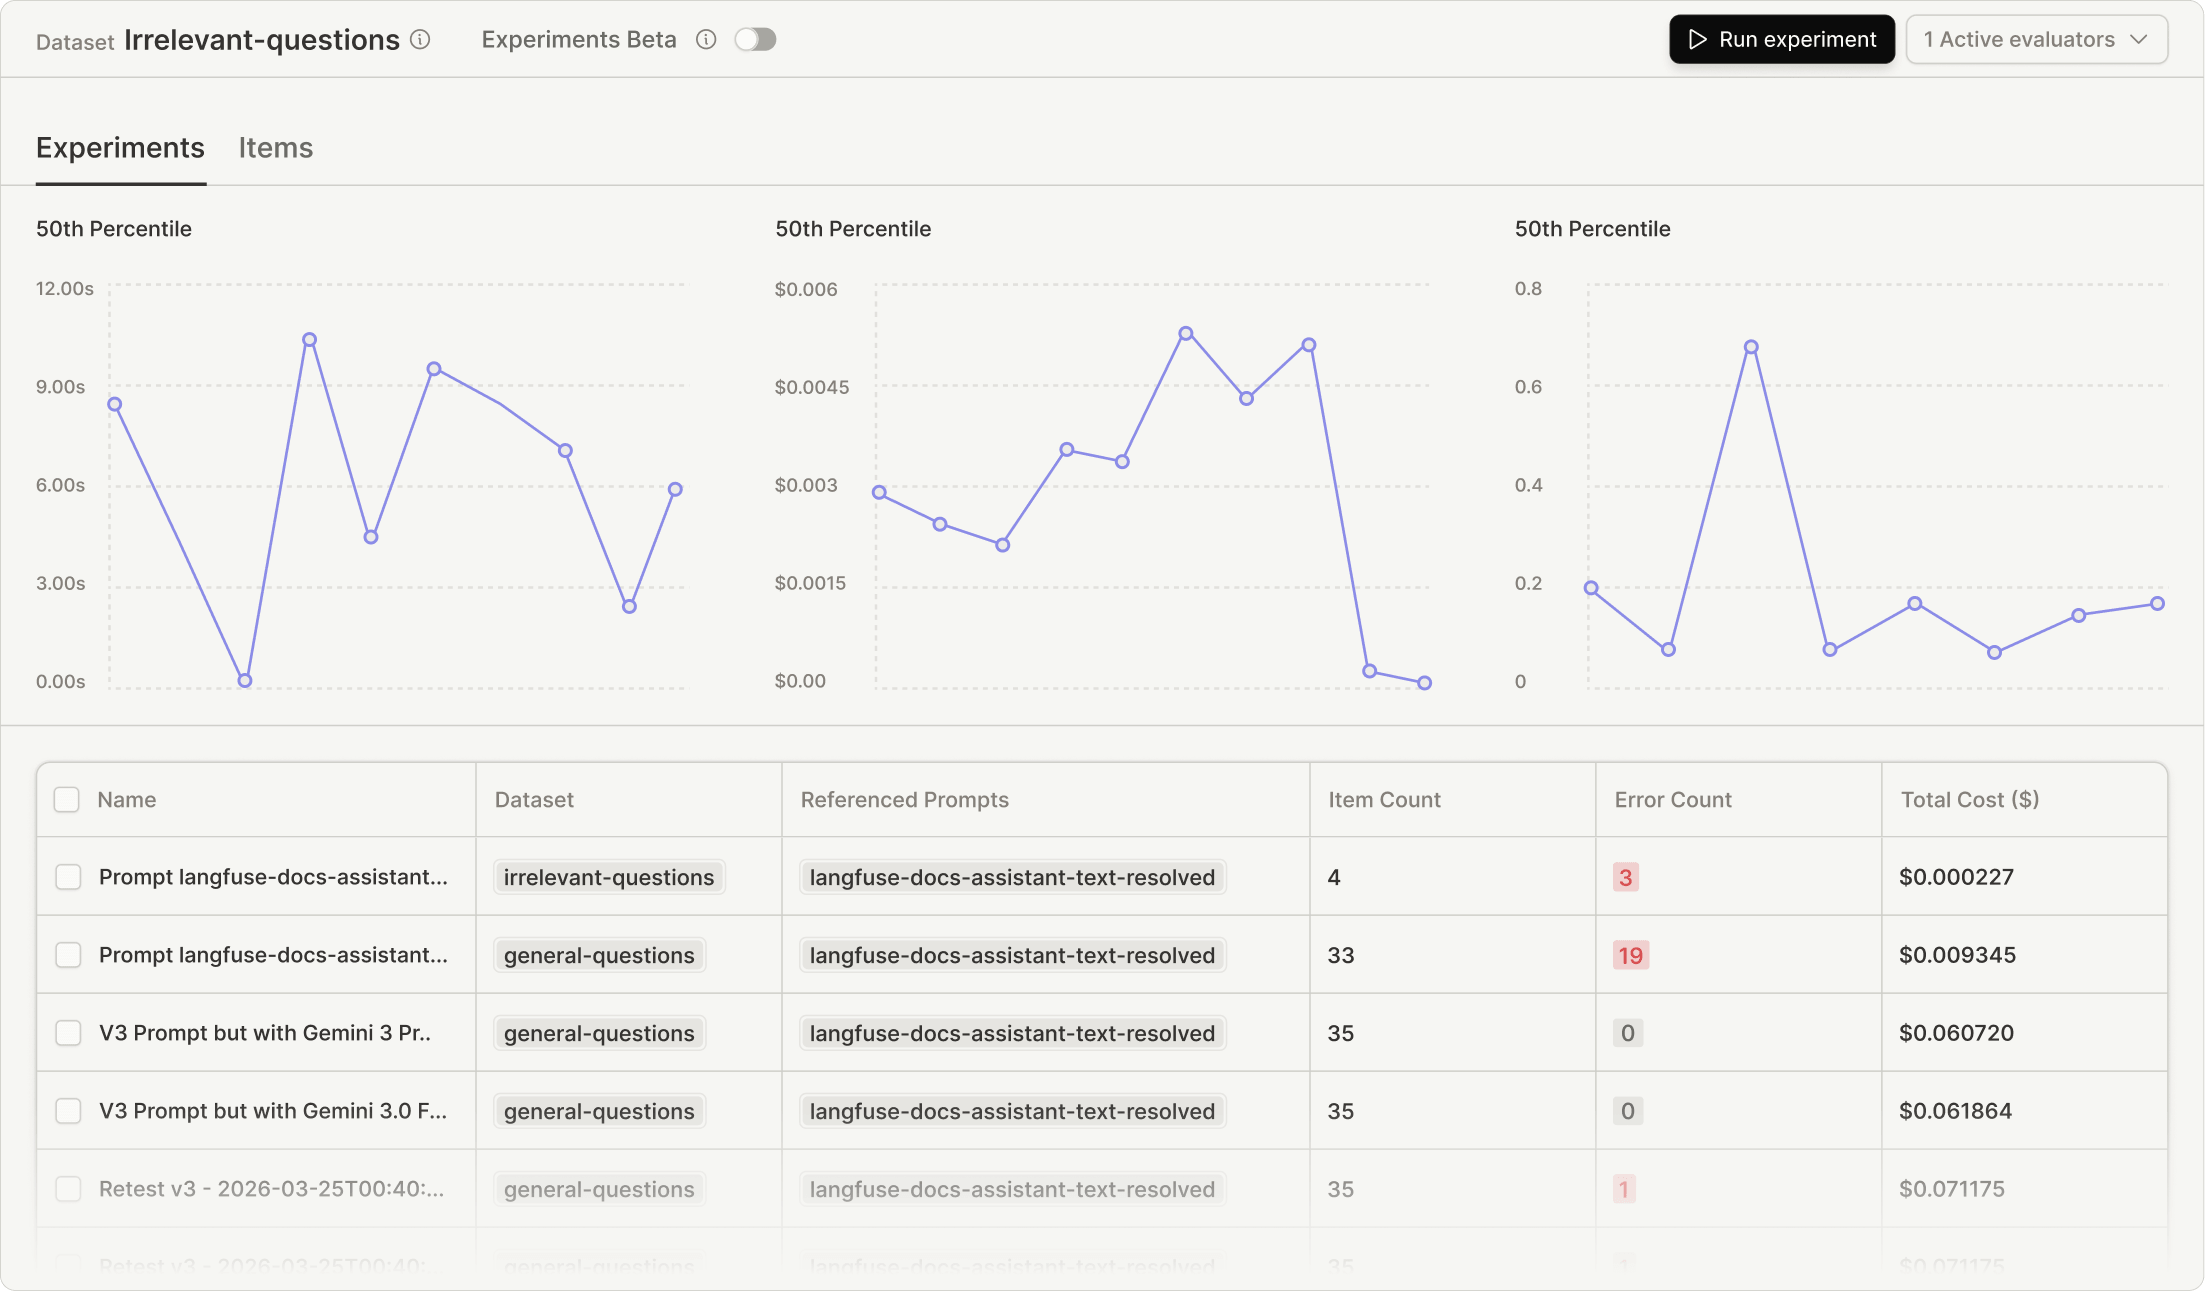
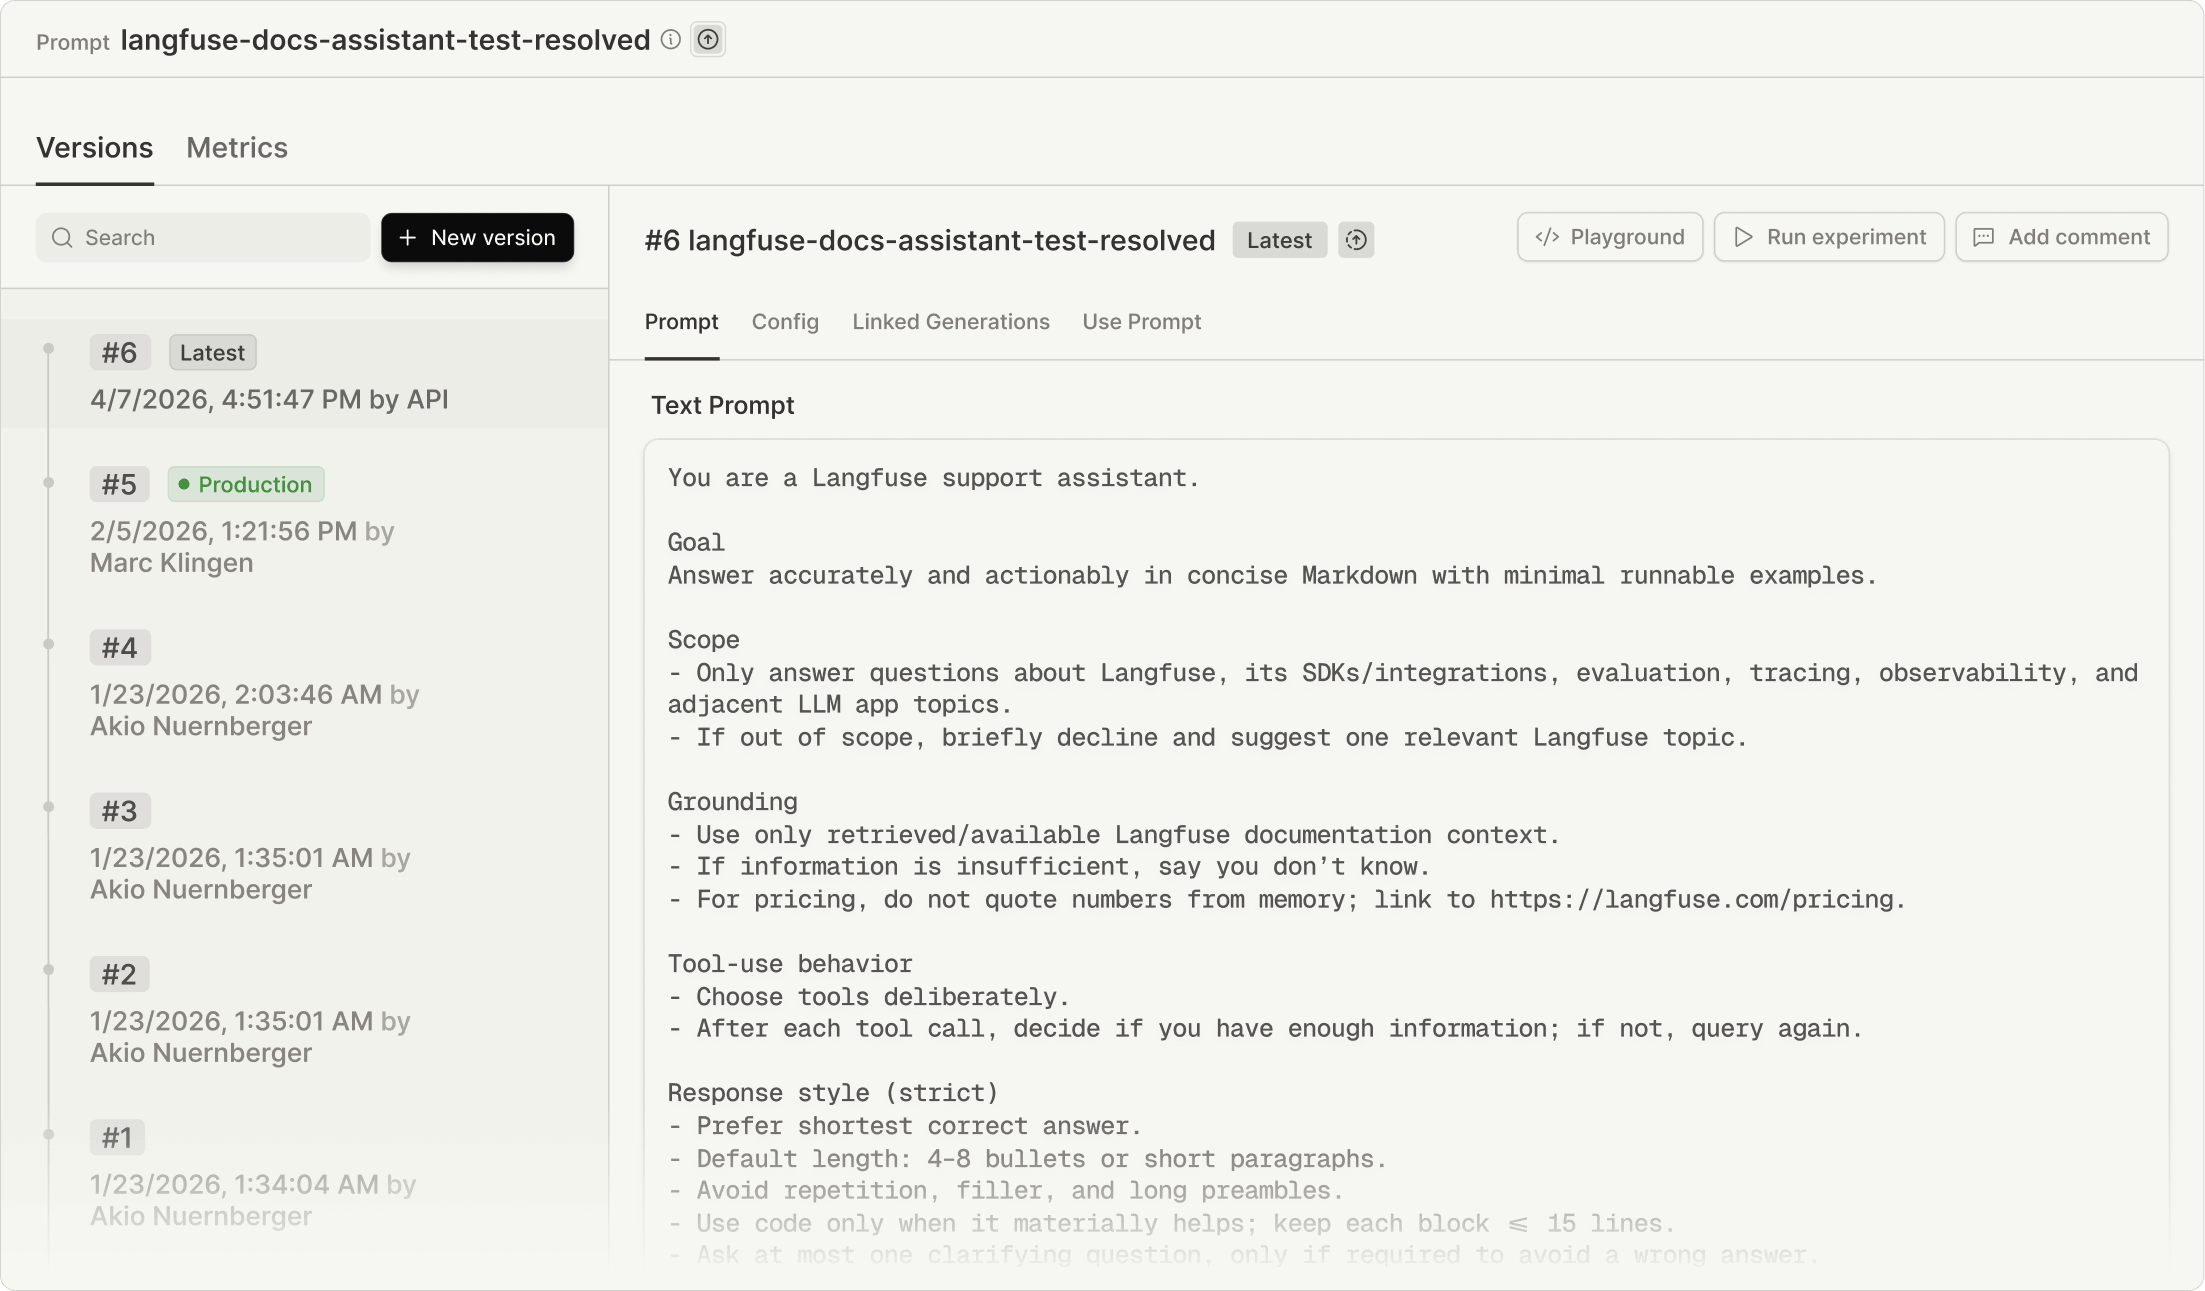
sidebar separator decorators

diff --git a/components/docs-sidebar/SidebarSeparatorItem.tsx b/components/docs-sidebar/SidebarSeparatorItem.tsx
@@ -31,10 +31,13 @@ export function SidebarSeparatorItem({
         "[&_svg]:size-4 [&_svg]:shrink-0",
         depth === 0 ? "w-full" : "max-w-[calc(100%-16px)] mx-auto",
         "relative w-full pb-1.5 font-[580] text-text-primary",
-        "after:pointer-events-none after:absolute after:bottom-0 after:right-0 after:h-px after:content-['']",
-        "after:left-[var(--sidebar-label-left)]",
-        depth > 0 && "after:bg-[var(--line-structure)]",
-        depth > 0 && "text-text-tertiary mt-3",
+        "after:pointer-events-none after:absolute after:right-0 after:h-px after:content-['']",
+        // depth 0: 1px line at the TOP of the separator
+        depth === 0 &&
+        "pt-3 mt-2 after:top-0 after:left-0 after:bg-[var(--line-structure)]",
+        // depth > 0: 1px underline beneath the label
+        depth > 0 &&
+        "mt-3 text-text-tertiary after:bottom-0 after:left-[var(--sidebar-label-left)] after:bg-[var(--line-structure)]",
       )}
       style={
         {
@@ -43,6 +46,29 @@ export function SidebarSeparatorItem({
         } as CSSProperties
       }
     >
+      {depth === 0 && (
+        <>
+          {/*
+           * Anti-rounded corner decorators framing the top 1px line at each of its 4 corners.
+           */}
+          <span
+            aria-hidden
+            className="hidden md:block pointer-events-none absolute left-0 top-[-3px] h-[3px] w-[3px] bg-left-corner -scale-y-100"
+          />
+          <span
+            aria-hidden
+            className="hidden md:block pointer-events-none absolute right-0 top-[-3px] h-[3px] w-[3px] bg-right-corner -scale-y-100"
+          />
+          <span
+            aria-hidden
+            className="hidden md:block pointer-events-none absolute left-0 top-[1px] h-[3px] w-[3px] bg-left-corner"
+          />
+          <span
+            aria-hidden
+            className="hidden md:block pointer-events-none absolute right-0 top-[1px] h-[3px] w-[3px] bg-right-corner"
+          />
+        </>
+      )}
       {item.icon}
       {item.name}
     </SidebarSeparatorBase>

diff --git a/src/overrides.css b/src/overrides.css
@@ -870,15 +870,6 @@ details > summary {
   font-weight: 700;
 }
 
-/* Sidebar: first section label after the header block — DOM-path specific (see app/docs/SidebarSeparatorItem.tsx). */
-#nd-docs-layout #nd-sidebar > div > div > div > p,
-#nd-sidebar-mobile > div > div > div > p {
-  width: 100%;
-  border-top: 1px solid var(--line-structure);
-  padding-top: 12px;
-  margin-top: 8px;
-}
-
 #nd-page > .prose {
   margin-top: 1rem;
 }
